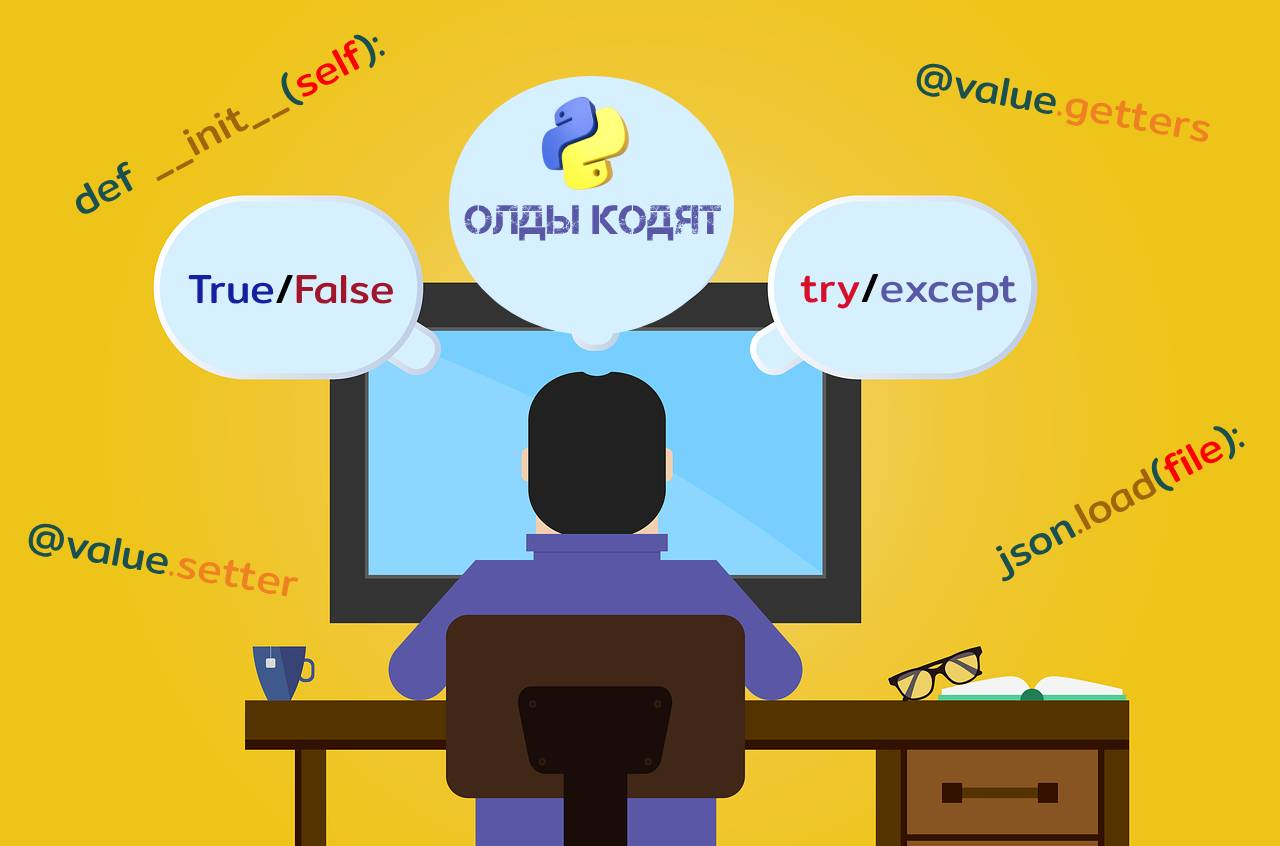
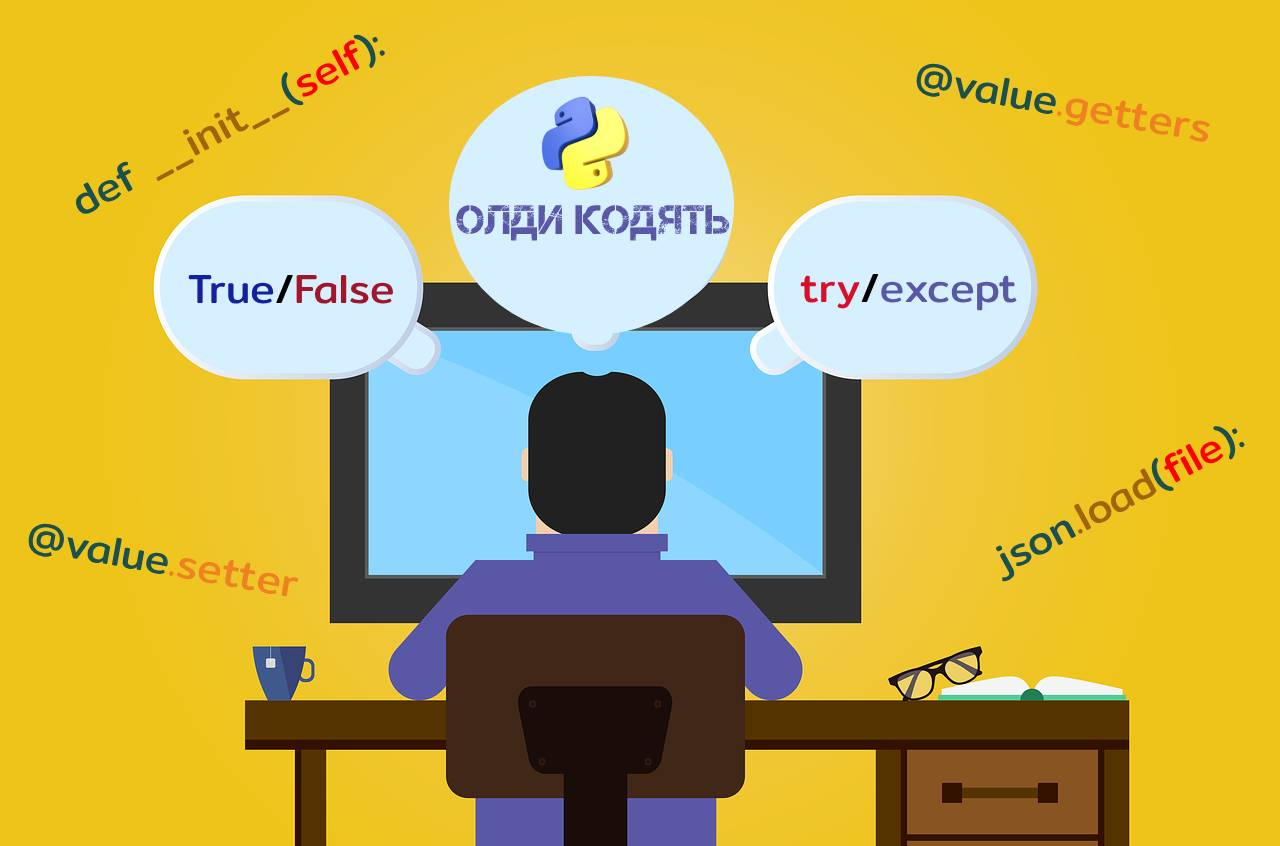
v6

Changed region(s): [[0.3438, 0.2151, 0.5938, 0.3073]]

diff --git a/index.html b/index.html
@@ -3,7 +3,7 @@
   <head>
     <meta charset="utf-8" />
     <meta http-equiv="x-ua-compatible" content="ie=edge" />
-    <title>олды кодят</title>
+    <title>олди кодять</title>
     <meta name="description" content="" />
     <meta name="keywords" content="" />
     <meta name="viewport" content="width=device-width, initial-scale=1" />
@@ -28,7 +28,7 @@
     <header class="floatingHeader">
       <div class="section-wrap display-flex header-wrap">
         <div class="logo">
-          <h1><img src="./images/logo.png" alt="олды кодят" /></h1>
+          <h1><img src="./images/logo.png" alt="олди кодять" /></h1>
         </div>
         <div class="menu">
           <input class="switcher" type="checkbox" id="menu" />
@@ -80,15 +80,15 @@
             </div>
             <div class="display-flex box">
               <div class="content">
-                <img src="./images/teams/team3.png" alt="Наталія" />
-                <h3>Наталія</h3>
+                <img src="./images/teams/team4.png" alt="Дмитро" />
+                <h3>Дмитро</h3>
                 <h4>Python Developer</h4>
               </div>
             </div>
             <div class="display-flex box">
               <div class="content">
-                <img src="./images/teams/team4.png" alt="Дмитро" />
-                <h3>Дмитро</h3>
+                <img src="./images/teams/team3.png" alt="Наталія" />
+                <h3>Наталія</h3>
                 <h4>Python Developer</h4>
               </div>
             </div>
